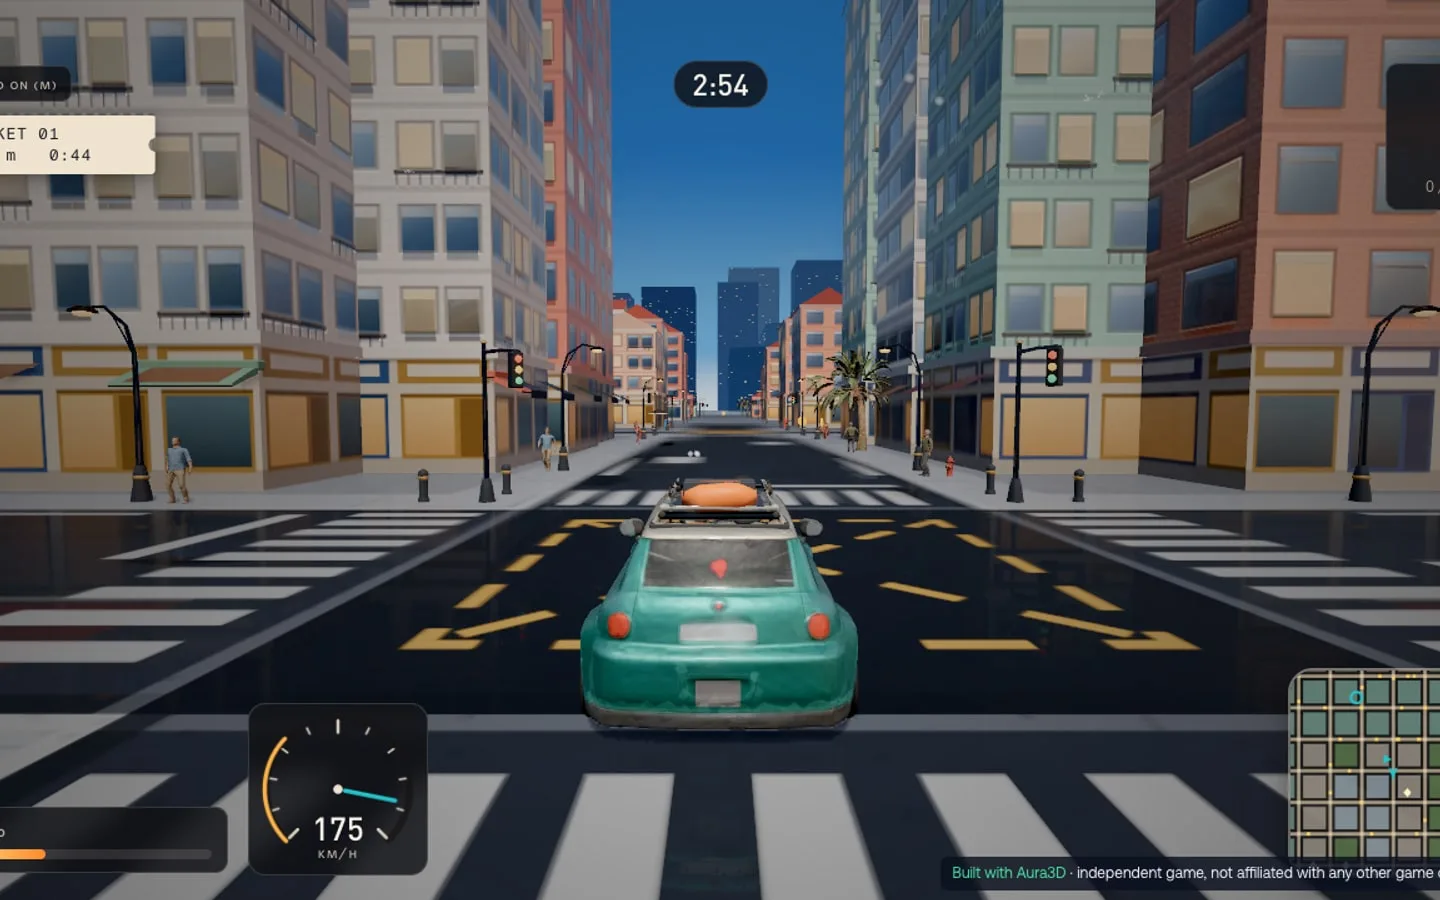
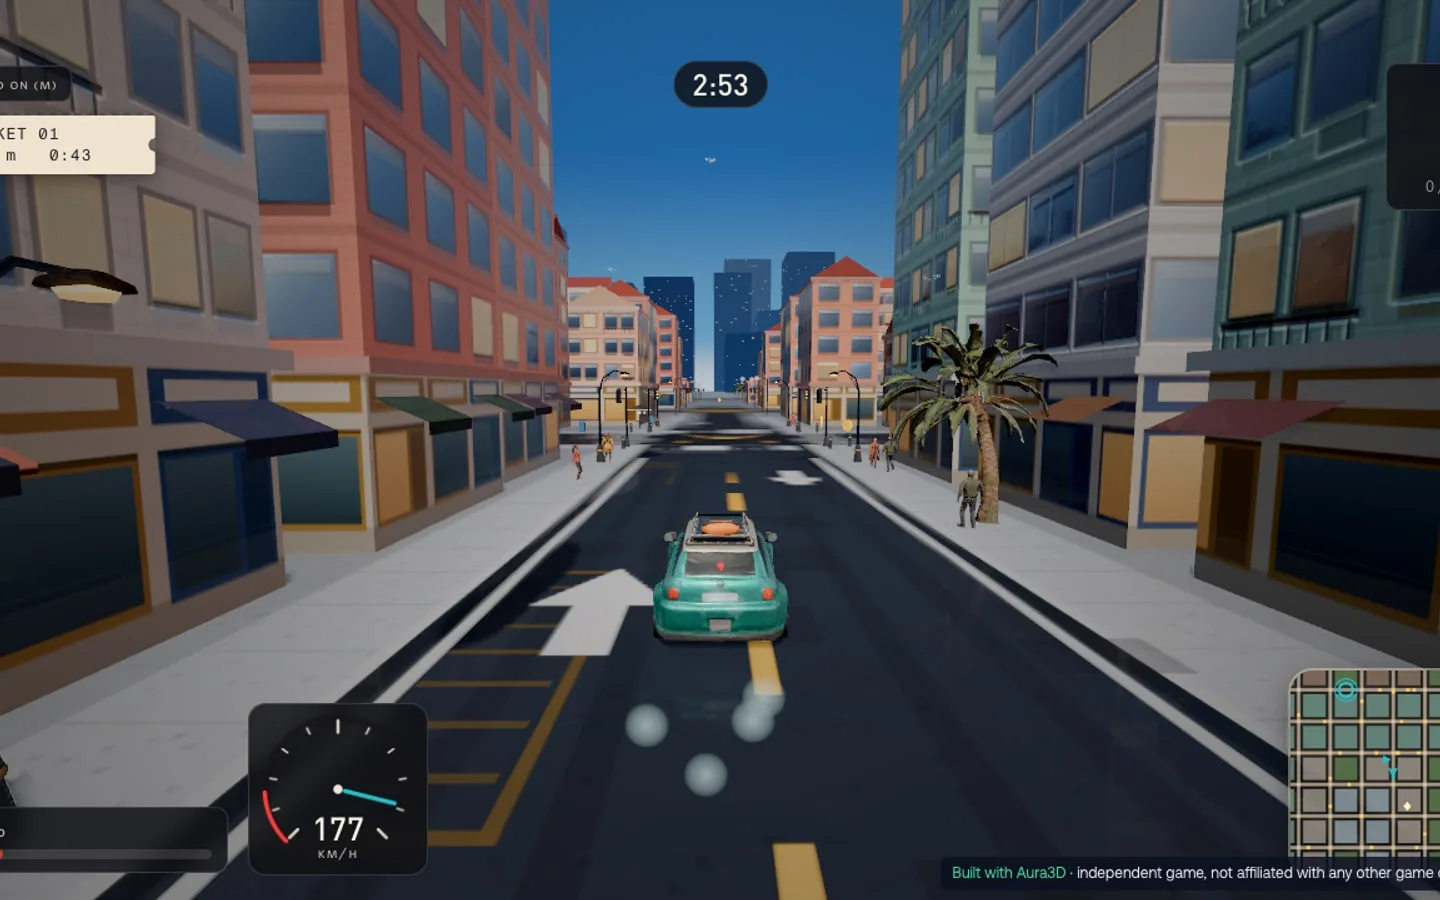
fix(gridlock-courier): pull back default chase camera for wider lane sightlines

diff --git a/examples/drift-and-deliver-port/chase.ts b/examples/drift-and-deliver-port/chase.ts
@@ -39,10 +39,10 @@ const SNAP = { back: 10.6, up: 4.3, lead: 5, lookUp: 1.25, fov: 56 } as const;
 /** GU47 WP-28 GC-C2: the shift look's tighter chase (back 5.0, up 2.1, fov 60) so the courier fills 15-20% of the height. */
 const SHIFT_OFFSET = { ...OFFSET, back: 5.0, up: 2.1 } as const;
 export const SHIFT_FOV = 60;
-/** WP-22 closer presentation chase: frames the sculpted cyan courier, roof delivery rack, street canyon, and sunlit blue sky cleanly from frame 0. */
-const CLOSE_OFFSET = { back: 4.95, backPerSpeed: 0.022, backBoost: 0.65, up: 2.12, upPerSpeed: 0.006, minAboveGround: 1.82, lead: 4.6, leadPerSpeed: 0.22, lookUp: 1.08 } as const;
-const CLOSE_SNAP = { back: 4.95, up: 2.12, lead: 4.6, lookUp: 1.08, fov: 56 } as const;
-export const CLOSE_FOV = 56;
+/** Balanced arcade street chase: pulls back & slightly up with a 62° FOV so the courier sits cleanly in the lower third with wide left/right lane sightlines. */
+const CLOSE_OFFSET = { back: 8.2, backPerSpeed: 0.035, backBoost: 0.9, up: 3.45, upPerSpeed: 0.01, minAboveGround: 2.6, lead: 6.2, leadPerSpeed: 0.24, lookUp: 1.05 } as const;
+const CLOSE_SNAP = { back: 8.2, up: 3.45, lead: 6.2, lookUp: 1.05, fov: 62 } as const;
+export const CLOSE_FOV = 62;
 /**
  * Owner QA (Nov 18): "the car is too close to the viewport; it should be further away so the user has more of a bird's-eye
  * view of the street". Elevated 3/4 chase: 15 m up, 16 m back, aiming 3 m ahead of the car at road level (about 38 degrees
@@ -51,8 +51,8 @@ export const CLOSE_FOV = 56;
 const BIRD_OFFSET = { back: 16, backPerSpeed: 0.03, backBoost: 0.8, up: 15, upPerSpeed: 0.03, minAboveGround: 8, lead: 3, leadPerSpeed: 0.05, lookUp: 0 } as const;
 const BIRD_SNAP = { back: 16, up: 15, lead: 3, lookUp: 0, fov: 55 } as const;
 export const BIRD_FOV = 55;
-const CLOSE_ORIG_OFFSET = { back: 4.95, backPerSpeed: 0.024, backBoost: 0.7, up: 2.22, upPerSpeed: 0.007, minAboveGround: 1.85, lead: 4.6, leadPerSpeed: 0.22, lookUp: 1.08 } as const;
-const CLOSE_ORIG_SNAP = { back: 4.95, up: 2.22, lead: 4.6, lookUp: 1.08, fov: 55 } as const;
+const CLOSE_ORIG_OFFSET = { back: 8.2, backPerSpeed: 0.035, backBoost: 0.9, up: 3.55, upPerSpeed: 0.01, minAboveGround: 2.6, lead: 6.2, leadPerSpeed: 0.24, lookUp: 1.05 } as const;
+const CLOSE_ORIG_SNAP = { back: 8.2, up: 3.55, lead: 6.2, lookUp: 1.05, fov: 61 } as const;
 /** `prefers-reduced-motion`: no shake at all and the speed/nitro field-of-view kick capped at 3 degrees. */
 export const REDUCED_FOV_KICK = 3;
 const makeRig = (
